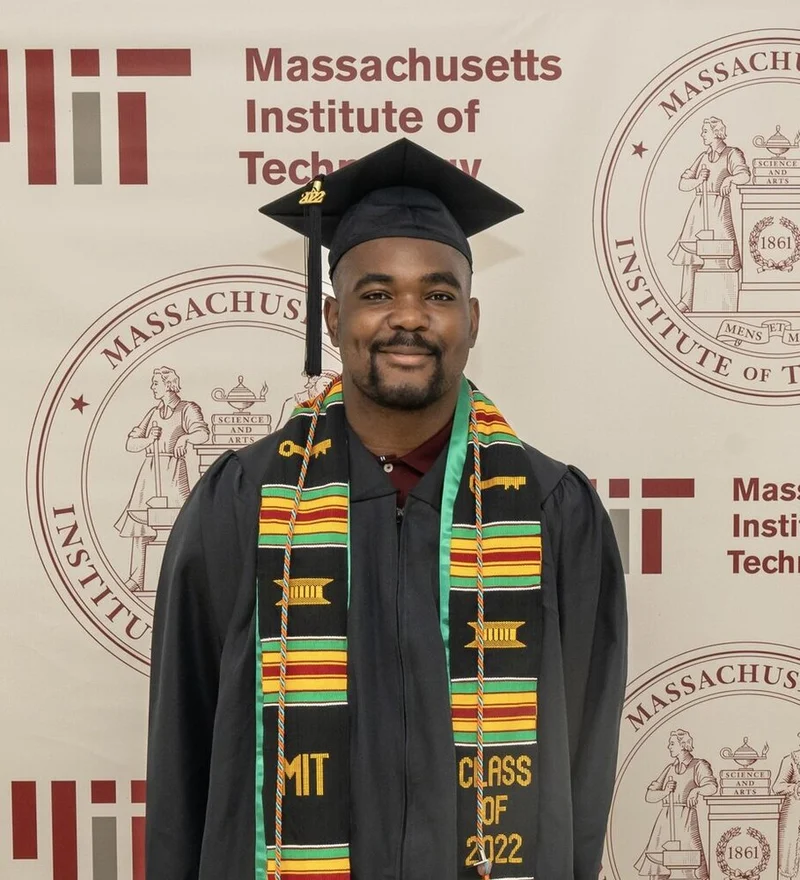
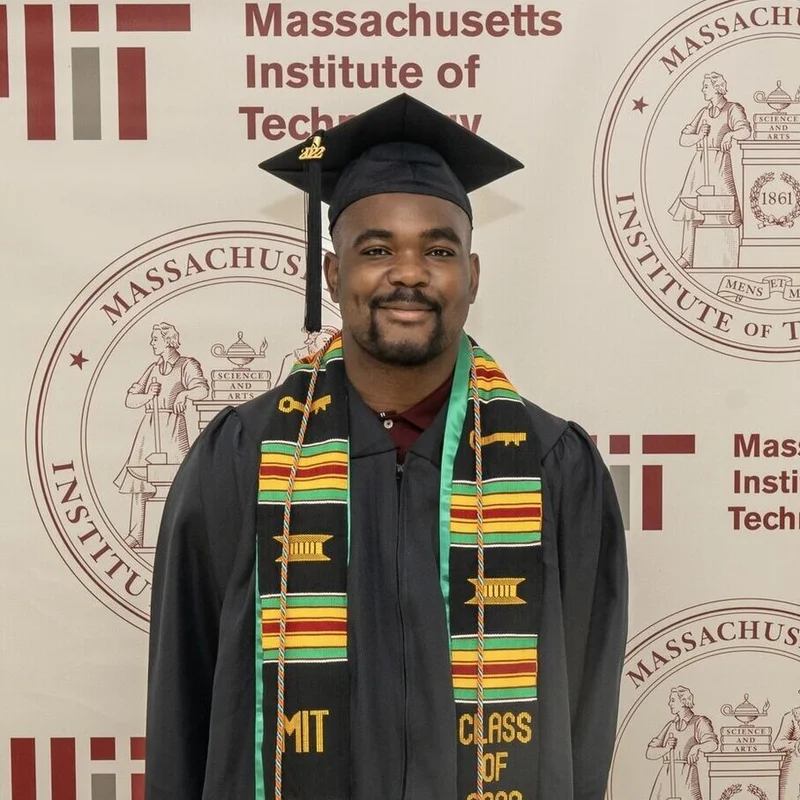
Deploying to gh-pages from @ danieladebi/danieladebi.github.io@04b8ef9e977b54c0ee73c737624e6935efd5da98 🚀

diff --git a/blog/2021/diagrams/index.html b/blog/2021/diagrams/index.html
@@ -138,8 +138,8 @@ sequenceDiagram
 </code></pre></div></div>
 
 <div class="jekyll-diagrams diagrams mermaid">
-  <svg id="mermaid-1682250437069" width="100%" xmlns="http://www.w3.org/2000/svg" height="100%" style="max-width:450px;" viewbox="-50 -10 450 231"><style>#mermaid-1682250437069 .label{font-family:trebuchet ms,verdana,arial;color:#333}#mermaid-1682250437069 .node circle,#mermaid-1682250437069 .node ellipse,#mermaid-1682250437069 .node polygon,#mermaid-1682250437069 .node rect{fill:#ececff;stroke:#9370db;stroke-width:1px}#mermaid-1682250437069 .node.clickable{cursor:pointer}#mermaid-1682250437069 .arrowheadPath{fill:#333}#mermaid-1682250437069 .edgePath .path{stroke:#333;stroke-width:1.5px}#mermaid-1682250437069 .edgeLabel{background-color:#e8e8e8}#mermaid-1682250437069 .cluster rect{fill:#ffffde!important;stroke:#aa3!important;stroke-width:1px!important}#mermaid-1682250437069 .cluster text{fill:#333}#mermaid-1682250437069 div.mermaidTooltip{position:absolute;text-align:center;max-width:200px;padding:2px;font-family:trebuchet ms,verdana,arial;font-size:12px;background:#ffffde;border:1px solid #aa3;border-radius:2px;pointer-events:none;z-index:100}#mermaid-1682250437069 .actor{stroke:#ccf;fill:#ececff}#mermaid-1682250437069 text.actor{fill:#000;stroke:none}#mermaid-1682250437069 .actor-line{stroke:grey}#mermaid-1682250437069 .messageLine0{marker-end:"url(#arrowhead)"}#mermaid-1682250437069 .messageLine0,#mermaid-1682250437069 .messageLine1{stroke-width:1.5;stroke-dasharray:"2 2";stroke:#333}#mermaid-1682250437069 #arrowhead{fill:#333}#mermaid-1682250437069 #crosshead path{fill:#333!important;stroke:#333!important}#mermaid-1682250437069 .messageText{fill:#333;stroke:none}#mermaid-1682250437069 .labelBox{stroke:#ccf;fill:#ececff}#mermaid-1682250437069 .labelText,#mermaid-1682250437069 .loopText{fill:#000;stroke:none}#mermaid-1682250437069 .loopLine{stroke-width:2;stroke-dasharray:"2 2";marker-end:"url(#arrowhead)";stroke:#ccf}#mermaid-1682250437069 .note{stroke:#aa3;fill:#fff5ad}#mermaid-1682250437069 .noteText{fill:#000;stroke:none;font-family:trebuchet ms,verdana,arial;font-size:14px}#mermaid-1682250437069 .section{stroke:none;opacity:.2}#mermaid-1682250437069 .section0{fill:rgba(102,102,255,.49)}#mermaid-1682250437069 .section2{fill:#fff400}#mermaid-1682250437069 .section1,#mermaid-1682250437069 .section3{fill:#fff;opacity:.2}#mermaid-1682250437069 .sectionTitle0,#mermaid-1682250437069 .sectionTitle1,#mermaid-1682250437069 .sectionTitle2,#mermaid-1682250437069 .sectionTitle3{fill:#333}#mermaid-1682250437069 .sectionTitle{text-anchor:start;font-size:11px;text-height:14px}#mermaid-1682250437069 .grid .tick{stroke:#d3d3d3;opacity:.3;shape-rendering:crispEdges}#mermaid-1682250437069 .grid path{stroke-width:0}#mermaid-1682250437069 .today{fill:none;stroke:red;stroke-width:2px}#mermaid-1682250437069 .task{stroke-width:2}#mermaid-1682250437069 .taskText{text-anchor:middle;font-size:11px}#mermaid-1682250437069 .taskTextOutsideRight{fill:#000;text-anchor:start;font-size:11px}#mermaid-1682250437069 .taskTextOutsideLeft{fill:#000;text-anchor:end;font-size:11px}#mermaid-1682250437069 .taskText0,#mermaid-1682250437069 .taskText1,#mermaid-1682250437069 .taskText2,#mermaid-1682250437069 .taskText3{fill:#fff}#mermaid-1682250437069 .task0,#mermaid-1682250437069 .task1,#mermaid-1682250437069 .task2,#mermaid-1682250437069 .task3{fill:#8a90dd;stroke:#534fbc}#mermaid-1682250437069 .taskTextOutside0,#mermaid-1682250437069 .taskTextOutside1,#mermaid-1682250437069 .taskTextOutside2,#mermaid-1682250437069 .taskTextOutside3{fill:#000}#mermaid-1682250437069 .active0,#mermaid-1682250437069 .active1,#mermaid-1682250437069 .active2,#mermaid-1682250437069 .active3{fill:#bfc7ff;stroke:#534fbc}#mermaid-1682250437069 .activeText0,#mermaid-1682250437069 .activeText1,#mermaid-1682250437069 .activeText2,#mermaid-1682250437069 .activeText3{fill:#000!important}#mermaid-1682250437069 .done0,#mermaid-1682250437069 .done1,#mermaid-1682250437069 .done2,#mermaid-1682250437069 .done3{stroke:grey;fill:#d3d3d3;stroke-width:2}#mermaid-1682250437069 .doneText0,#mermaid-1682250437069 .doneText1,#mermaid-1682250437069 .doneText2,#mermaid-1682250437069 .doneText3{fill:#000!important}#mermaid-1682250437069 .crit0,#mermaid-1682250437069 .crit1,#mermaid-1682250437069 .crit2,#mermaid-1682250437069 .crit3{stroke:#f88;fill:red;stroke-width:2}#mermaid-1682250437069 .activeCrit0,#mermaid-1682250437069 .activeCrit1,#mermaid-1682250437069 .activeCrit2,#mermaid-1682250437069 .activeCrit3{stroke:#f88;fill:#bfc7ff;stroke-width:2}#mermaid-1682250437069 .doneCrit0,#mermaid-1682250437069 .doneCrit1,#mermaid-1682250437069 .doneCrit2,#mermaid-1682250437069 .doneCrit3{stroke:#f88;fill:#d3d3d3;stroke-width:2;cursor:pointer;shape-rendering:crispEdges}#mermaid-1682250437069 .activeCritText0,#mermaid-1682250437069 .activeCritText1,#mermaid-1682250437069 .activeCritText2,#mermaid-1682250437069 .activeCritText3,#mermaid-1682250437069 .doneCritText0,#mermaid-1682250437069 .doneCritText1,#mermaid-1682250437069 .doneCritText2,#mermaid-1682250437069 .doneCritText3{fill:#000!important}#mermaid-1682250437069 .titleText{text-anchor:middle;font-size:18px;fill:#000}#mermaid-1682250437069 g.classGroup text{fill:#9370db;stroke:none;font-family:trebuchet ms,verdana,arial;font-size:10px}#mermaid-1682250437069 g.classGroup rect{fill:#ececff;stroke:#9370db}#mermaid-1682250437069 g.classGroup line{stroke:#9370db;stroke-width:1}#mermaid-1682250437069 .classLabel .box{stroke:none;stroke-width:0;fill:#ececff;opacity:.5}#mermaid-1682250437069 .classLabel .label{fill:#9370db;font-size:10px}#mermaid-1682250437069 .relation{stroke:#9370db;stroke-width:1;fill:none}#mermaid-1682250437069 #compositionEnd,#mermaid-1682250437069 #compositionStart{fill:#9370db;stroke:#9370db;stroke-width:1}#mermaid-1682250437069 #aggregationEnd,#mermaid-1682250437069 #aggregationStart{fill:#ececff;stroke:#9370db;stroke-width:1}#mermaid-1682250437069 #dependencyEnd,#mermaid-1682250437069 #dependencyStart,#mermaid-1682250437069 #extensionEnd,#mermaid-1682250437069 #extensionStart{fill:#9370db;stroke:#9370db;stroke-width:1}#mermaid-1682250437069 .branch-label,#mermaid-1682250437069 .commit-id,#mermaid-1682250437069 .commit-msg{fill:#d3d3d3;color:#d3d3d3}</style>
-<style>#mermaid-1682250437069 {
+  <svg id="mermaid-1682251252266" width="100%" xmlns="http://www.w3.org/2000/svg" height="100%" style="max-width:450px;" viewbox="-50 -10 450 231"><style>#mermaid-1682251252266 .label{font-family:trebuchet ms,verdana,arial;color:#333}#mermaid-1682251252266 .node circle,#mermaid-1682251252266 .node ellipse,#mermaid-1682251252266 .node polygon,#mermaid-1682251252266 .node rect{fill:#ececff;stroke:#9370db;stroke-width:1px}#mermaid-1682251252266 .node.clickable{cursor:pointer}#mermaid-1682251252266 .arrowheadPath{fill:#333}#mermaid-1682251252266 .edgePath .path{stroke:#333;stroke-width:1.5px}#mermaid-1682251252266 .edgeLabel{background-color:#e8e8e8}#mermaid-1682251252266 .cluster rect{fill:#ffffde!important;stroke:#aa3!important;stroke-width:1px!important}#mermaid-1682251252266 .cluster text{fill:#333}#mermaid-1682251252266 div.mermaidTooltip{position:absolute;text-align:center;max-width:200px;padding:2px;font-family:trebuchet ms,verdana,arial;font-size:12px;background:#ffffde;border:1px solid #aa3;border-radius:2px;pointer-events:none;z-index:100}#mermaid-1682251252266 .actor{stroke:#ccf;fill:#ececff}#mermaid-1682251252266 text.actor{fill:#000;stroke:none}#mermaid-1682251252266 .actor-line{stroke:grey}#mermaid-1682251252266 .messageLine0{marker-end:"url(#arrowhead)"}#mermaid-1682251252266 .messageLine0,#mermaid-1682251252266 .messageLine1{stroke-width:1.5;stroke-dasharray:"2 2";stroke:#333}#mermaid-1682251252266 #arrowhead{fill:#333}#mermaid-1682251252266 #crosshead path{fill:#333!important;stroke:#333!important}#mermaid-1682251252266 .messageText{fill:#333;stroke:none}#mermaid-1682251252266 .labelBox{stroke:#ccf;fill:#ececff}#mermaid-1682251252266 .labelText,#mermaid-1682251252266 .loopText{fill:#000;stroke:none}#mermaid-1682251252266 .loopLine{stroke-width:2;stroke-dasharray:"2 2";marker-end:"url(#arrowhead)";stroke:#ccf}#mermaid-1682251252266 .note{stroke:#aa3;fill:#fff5ad}#mermaid-1682251252266 .noteText{fill:#000;stroke:none;font-family:trebuchet ms,verdana,arial;font-size:14px}#mermaid-1682251252266 .section{stroke:none;opacity:.2}#mermaid-1682251252266 .section0{fill:rgba(102,102,255,.49)}#mermaid-1682251252266 .section2{fill:#fff400}#mermaid-1682251252266 .section1,#mermaid-1682251252266 .section3{fill:#fff;opacity:.2}#mermaid-1682251252266 .sectionTitle0,#mermaid-1682251252266 .sectionTitle1,#mermaid-1682251252266 .sectionTitle2,#mermaid-1682251252266 .sectionTitle3{fill:#333}#mermaid-1682251252266 .sectionTitle{text-anchor:start;font-size:11px;text-height:14px}#mermaid-1682251252266 .grid .tick{stroke:#d3d3d3;opacity:.3;shape-rendering:crispEdges}#mermaid-1682251252266 .grid path{stroke-width:0}#mermaid-1682251252266 .today{fill:none;stroke:red;stroke-width:2px}#mermaid-1682251252266 .task{stroke-width:2}#mermaid-1682251252266 .taskText{text-anchor:middle;font-size:11px}#mermaid-1682251252266 .taskTextOutsideRight{fill:#000;text-anchor:start;font-size:11px}#mermaid-1682251252266 .taskTextOutsideLeft{fill:#000;text-anchor:end;font-size:11px}#mermaid-1682251252266 .taskText0,#mermaid-1682251252266 .taskText1,#mermaid-1682251252266 .taskText2,#mermaid-1682251252266 .taskText3{fill:#fff}#mermaid-1682251252266 .task0,#mermaid-1682251252266 .task1,#mermaid-1682251252266 .task2,#mermaid-1682251252266 .task3{fill:#8a90dd;stroke:#534fbc}#mermaid-1682251252266 .taskTextOutside0,#mermaid-1682251252266 .taskTextOutside1,#mermaid-1682251252266 .taskTextOutside2,#mermaid-1682251252266 .taskTextOutside3{fill:#000}#mermaid-1682251252266 .active0,#mermaid-1682251252266 .active1,#mermaid-1682251252266 .active2,#mermaid-1682251252266 .active3{fill:#bfc7ff;stroke:#534fbc}#mermaid-1682251252266 .activeText0,#mermaid-1682251252266 .activeText1,#mermaid-1682251252266 .activeText2,#mermaid-1682251252266 .activeText3{fill:#000!important}#mermaid-1682251252266 .done0,#mermaid-1682251252266 .done1,#mermaid-1682251252266 .done2,#mermaid-1682251252266 .done3{stroke:grey;fill:#d3d3d3;stroke-width:2}#mermaid-1682251252266 .doneText0,#mermaid-1682251252266 .doneText1,#mermaid-1682251252266 .doneText2,#mermaid-1682251252266 .doneText3{fill:#000!important}#mermaid-1682251252266 .crit0,#mermaid-1682251252266 .crit1,#mermaid-1682251252266 .crit2,#mermaid-1682251252266 .crit3{stroke:#f88;fill:red;stroke-width:2}#mermaid-1682251252266 .activeCrit0,#mermaid-1682251252266 .activeCrit1,#mermaid-1682251252266 .activeCrit2,#mermaid-1682251252266 .activeCrit3{stroke:#f88;fill:#bfc7ff;stroke-width:2}#mermaid-1682251252266 .doneCrit0,#mermaid-1682251252266 .doneCrit1,#mermaid-1682251252266 .doneCrit2,#mermaid-1682251252266 .doneCrit3{stroke:#f88;fill:#d3d3d3;stroke-width:2;cursor:pointer;shape-rendering:crispEdges}#mermaid-1682251252266 .activeCritText0,#mermaid-1682251252266 .activeCritText1,#mermaid-1682251252266 .activeCritText2,#mermaid-1682251252266 .activeCritText3,#mermaid-1682251252266 .doneCritText0,#mermaid-1682251252266 .doneCritText1,#mermaid-1682251252266 .doneCritText2,#mermaid-1682251252266 .doneCritText3{fill:#000!important}#mermaid-1682251252266 .titleText{text-anchor:middle;font-size:18px;fill:#000}#mermaid-1682251252266 g.classGroup text{fill:#9370db;stroke:none;font-family:trebuchet ms,verdana,arial;font-size:10px}#mermaid-1682251252266 g.classGroup rect{fill:#ececff;stroke:#9370db}#mermaid-1682251252266 g.classGroup line{stroke:#9370db;stroke-width:1}#mermaid-1682251252266 .classLabel .box{stroke:none;stroke-width:0;fill:#ececff;opacity:.5}#mermaid-1682251252266 .classLabel .label{fill:#9370db;font-size:10px}#mermaid-1682251252266 .relation{stroke:#9370db;stroke-width:1;fill:none}#mermaid-1682251252266 #compositionEnd,#mermaid-1682251252266 #compositionStart{fill:#9370db;stroke:#9370db;stroke-width:1}#mermaid-1682251252266 #aggregationEnd,#mermaid-1682251252266 #aggregationStart{fill:#ececff;stroke:#9370db;stroke-width:1}#mermaid-1682251252266 #dependencyEnd,#mermaid-1682251252266 #dependencyStart,#mermaid-1682251252266 #extensionEnd,#mermaid-1682251252266 #extensionStart{fill:#9370db;stroke:#9370db;stroke-width:1}#mermaid-1682251252266 .branch-label,#mermaid-1682251252266 .commit-id,#mermaid-1682251252266 .commit-msg{fill:#d3d3d3;color:#d3d3d3}</style>
+<style>#mermaid-1682251252266 {
     color: rgb(0, 0, 0);
     font: normal normal 400 normal 16px / normal "Times New Roman";
   }</style>

diff --git a/about/index.html b/about/index.html
@@ -110,7 +110,7 @@
 
           <article>
             <div class="row justify-content-sm-center">
-    <div class="col-sm-4">
+    <div class="col-sm-5">
         <figure>
 
   <picture>
@@ -128,7 +128,25 @@
 </figure>
 
     </div> 
-    <div class="col-sm-4">
+    <div class="col-sm-2">
+        <figure>
+
+  <picture>
+    
+    <source class="responsive-img-srcset" media="(max-width: 480px)" srcset="/assets/img/eagles_jersey_pic-480.webp"></source>
+    <source class="responsive-img-srcset" media="(max-width: 800px)" srcset="/assets/img/eagles_jersey_pic-800.webp"></source>
+    <source class="responsive-img-srcset" media="(max-width: 1400px)" srcset="/assets/img/eagles_jersey_pic-1400.webp"></source>
+    
+
+    <!-- Fallback to the original file -->
+    <img src="/assets/img/eagles_jersey_pic.jpg" class="img-fluid rounded z-depth-1" width="auto" height="auto" title="Grad Photo" onerror="this.onerror=null; $('.responsive-img-srcset').remove();">
+
+  </picture>
+
+</figure>
+
+    </div>   
+    <div class="col-sm-5">
         <figure>
 
   <picture>
